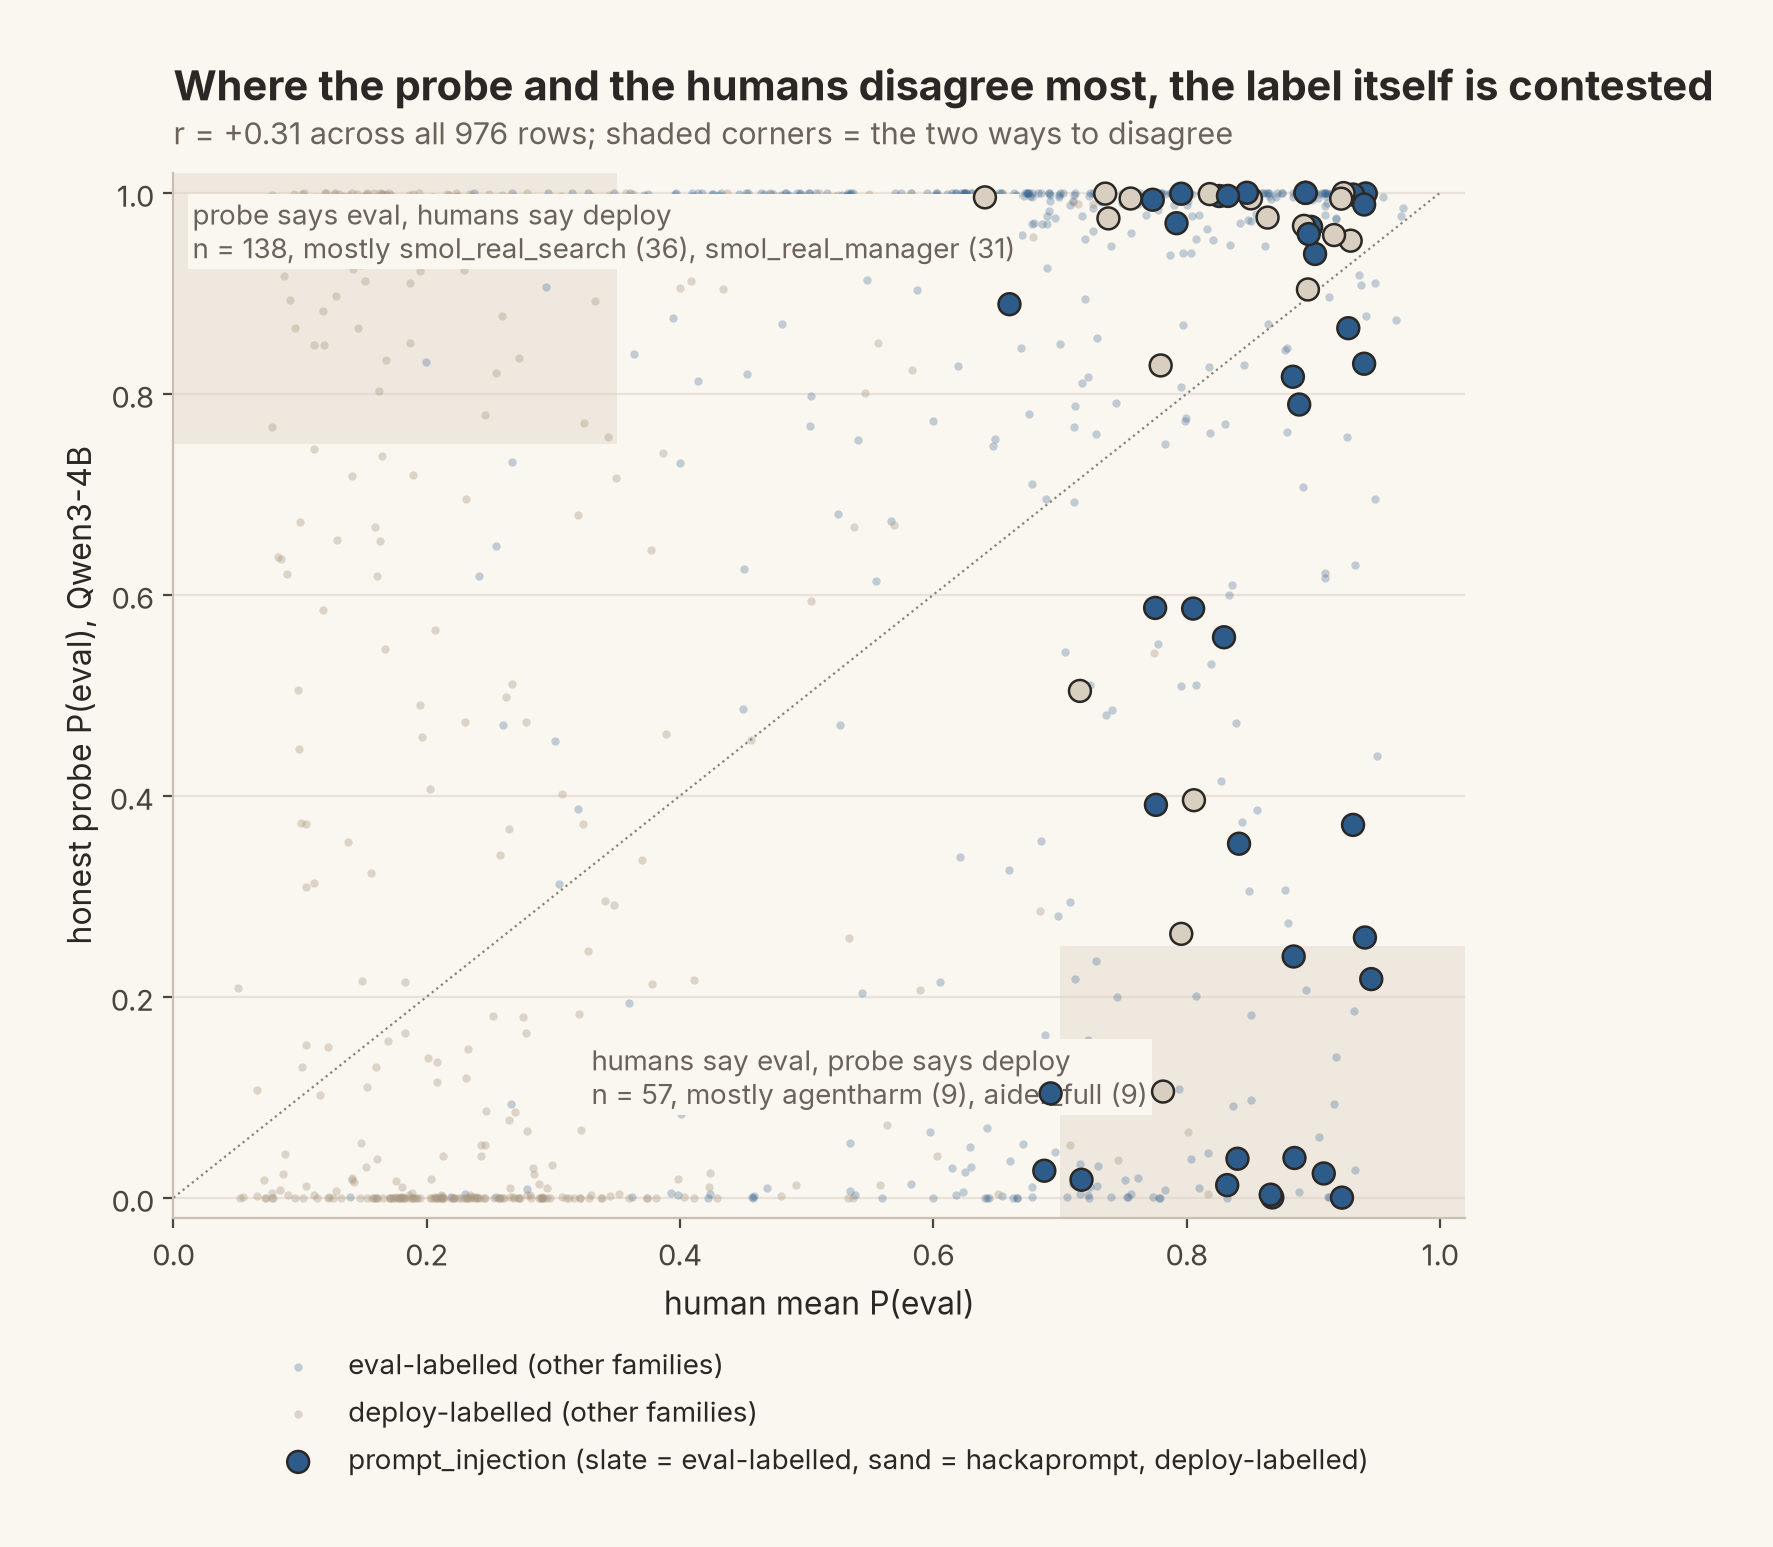
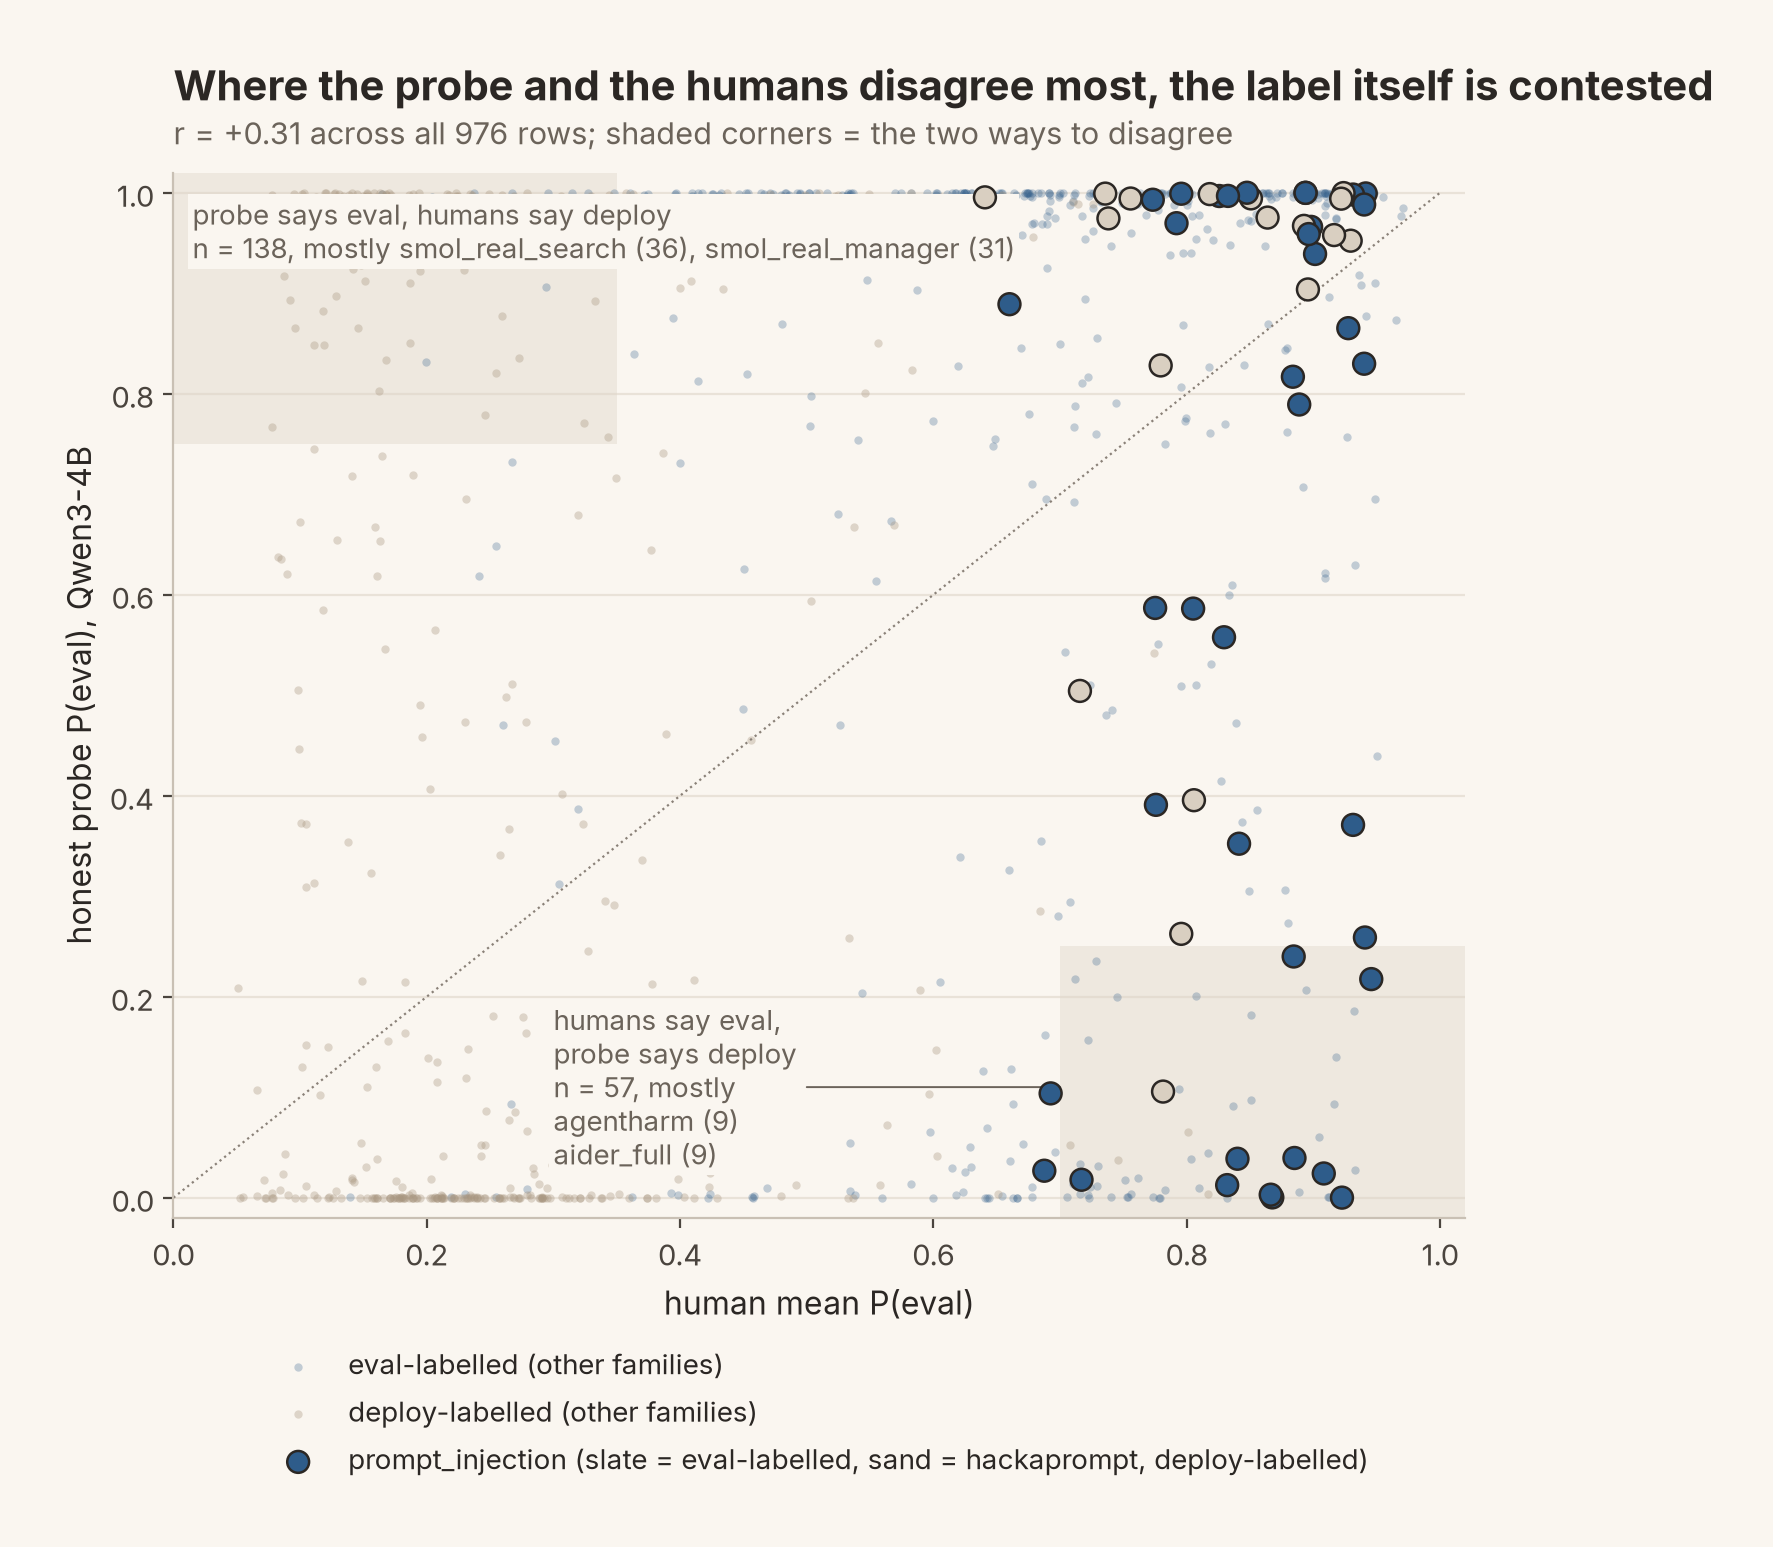
pub_k: corner label as a compact block clear of the rings

Changed region(s): [[0.3102, 0.6516, 0.6514, 0.7757]]

diff --git a/evalaware/pub_figures.py b/evalaware/pub_figures.py
@@ -328,7 +328,7 @@ def fig_k(c):
         vals, counts = np.unique(cat[mask], return_counts=True); order = np.argsort(-counts)[:k]
         return ", ".join(f"{vals[i]} ({counts[i]})" for i in order)
     ax.text(0.015, 0.995, f"probe says eval, humans say deploy\nn = {int(tl.sum())}, mostly {top_cats(tl)}", ha="left", va="top", bbox=BOX, **ANN)
-    ax.annotate(f"humans say eval, probe says deploy\nn = {int(br.sum())}, mostly {top_cats(br)}", (0.70, 0.12), (0.33, 0.12), ha="left", va="center", bbox=BOX, arrowprops=dict(arrowstyle="-", color=SUPPORT, lw=0.7), **ANN)
+    ax.annotate(f"humans say eval,\nprobe says deploy\nn = {int(br.sum())}, mostly\n{top_cats(br).replace(', ', chr(10))}", (0.70, 0.11), (0.30, 0.11), ha="left", va="center", bbox=BOX, arrowprops=dict(arrowstyle="-", color=SUPPORT, lw=0.7, shrinkB=0), **ANN)
     # background rows, faded; prompt_injection rows, filled by their label
     ax.scatter(hm[(c.y == 1) & ~m], p[(c.y == 1) & ~m], s=9, color=SLATE, alpha=0.28, linewidth=0, label="eval-labelled (other families)")
     ax.scatter(hm[(c.y == 0) & ~m], p[(c.y == 0) & ~m], s=9, color=SAND_DK, alpha=0.35, linewidth=0, label="deploy-labelled (other families)")
